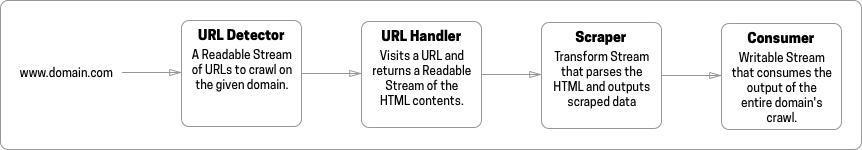
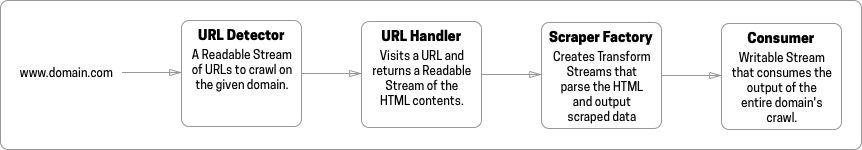
Finished README

diff --git a/src/core/crawlers.ts b/src/core/crawlers.ts
@@ -3,7 +3,7 @@ import hittp from "hittp";
 import { v4 as uuidv4 } from "uuid"
 import { ICrawlConsumer } from "./consumers"
 import SitemapLinkDetector, {ILinkDetector} from "./detectors";
-import { IScraper } from "./scrapers"
+import { IScraperFactory } from "./scrapers"
 import MetadataScraper from "./scrapers";
 import HTTPURLHandler, {IURLHandler} from "./url_handlers";
 
@@ -12,7 +12,7 @@ export interface ICrawler extends EventEmitter {
   detector: ILinkDetector
   consumer: ICrawlConsumer
   urlHandler: IURLHandler
-  scraper: IScraper
+  scraper: IScraperFactory
   domain: URL
   start(): void
   pause(): void
@@ -34,13 +34,13 @@ export default class DomainCrawler extends EventEmitter implements ICrawler {
   public detector: ILinkDetector
   public consumer: ICrawlConsumer
   public urlHandler: IURLHandler
-  public scraper: IScraper
+  public scraper: IScraperFactory
   public id: string
   private linkCount: number = 0
   private responseCount: number = 0
   constructor(domain: URL,
               consumer: ICrawlConsumer,
-              scraper?: IScraper,
+              scraper?: IScraperFactory,
               detector?: ILinkDetector,
               urlHandler?: IURLHandler) {
       super()

diff --git a/src/core/scrapers.ts b/src/core/scrapers.ts
@@ -6,11 +6,11 @@ import { Transform, TransformCallback } from "stream"
  * and the html will stream to the Transform stream returned from create().
  * See MetadataScraper for a default implementation
  */
-export interface IScraper {
+export interface IScraperFactory {
   create(options?: any): Transform
 }
 
-export default class MetadataScraper implements IScraper {
+export default class MetadataScraper implements IScraperFactory {
   public create(options?: any): MetadataScrapeStream {
     return new MetadataScrapeStream(options)
   }

diff --git a/src/commands/crawl.ts b/src/commands/crawl.ts
@@ -54,7 +54,6 @@ export default function crawl(port: number, host: string,
           // console.error(err)
         }
       }
-      console.log(body, callback)
       if (callback) {
         callback(res.statusCode!, body)
       }

diff --git a/README.md b/README.md
@@ -37,22 +37,82 @@ Now that the server is running, you can interact with it using the Client
 import { Client } from "turbocrawl"
 /* const { Client } = require("turbocrawl") */
 const client = new Client(8088, "localhost")
+client.crawl(["www.cnn.com", "www.nytimes.com", "www.newyorker.com"], (statusCode, response) => {
+  console.log(statusCode, response)
+})
+client.listCrawlers((crawlers) => {
+  console.log(crawlers)
+})
 ```
-
 
 ## Customization
 
-A crawler is an object that takes a domain name as input and discovers URLs to visit, fetches the HTML contents, scrapes data, then writes data out. A new crawler object is created for each domain that is crawled.
+The Server constructor takes 3 optional arguments: 
 
-There are 4 components to a Crawler
+```
+constructor(port: number = 8088, 
+            host: string = "localhost", 
+            crawlerFactory: ICrawlerFactory = new DomainCrawlerFactory())
+```
+
+### Crawlers and the Crawler Factory
+The entry point to customization is `crawlerFactory` which is responsible for creating a crawler object for each domain that is crawled.
+
+```
+interface ICrawlerFactory {
+  create(domain: URL): ICrawler
+}
+```
+
+Note that a crawler takes a domain name URL as input, and is meant for crawling a single website.
+
+There are 4 components to a Crawler. The interface is built with streams so the arrows signify the flow of data from left to right. From `"www.domain.com"` to a `Stream.Writable`
 
 ![Turbo Crawl Pipeline](img/pipeline.png)
 
-Each component has a default implementation
+Each component has a default implementation that works out of the box.
 
 ![Default Crawler Pipeline](img/default.png)
 
-You most likely want to use the default URL Handler and customize the other 3 components as you see fit.
+You most likely want to use the default URL Handler and customize the other 3 components as you see fit. The easiest way to do this is to extend the default `DomainCrawler` class and replace the `detector`, `scraper`, and `consumer` with your own classes in the constructor.
+
+### Domain Crawler
+```
+class DomainCrawler extends EventEmitter implements ICrawler {
+    constructor(domain: URL,
+              consumer: ICrawlConsumer,
+              scraper?: IScraper,
+              detector?: ILinkDetector)
+}
+```
+```
+class MyCustomCrawler extends DomainCrawler {
+  constructor(domain: URL) {
+    super(domain,
+          new MyCustomConsumer(),
+          new MyCustomScraper(),
+          new MyCustomLinkDetector())
+  }
+}
+```
+
+You can now create the server with your custom crawler factory
+
+```
+class MyCustomCrawlerFactory implements ICrawlerFactory {
+  public create(domain: URL): DomainCrawler {
+    return MyCustomCrawler(domain)
+  }
+}
+import { Server } from "turbocrawl"
+/* const { Server } = require("turbocrawl") */
+const server = new Server(8088, "localhost", new MyCustomCrawlerFactory())
+server.listen(() => {
+  console.log("Turbo Crawl server is listening on port 8088 with custom crawler)
+})
+```
+
+Of course you can choose to customize all or none of these components to suit your needs.
 
 ### URL Detector
 
@@ -64,19 +124,19 @@ interface ILinkDetector extends Readable {
 }
 ```
 
-The URL Detector is given just a domain name as input and is responsible for finding URLs to scrape on that domain. There is only one URL Detector object per crawler. It is implemented as a Readable Stream so whenever your class has discovered a URL, it should write it to the stream as a string. `this.push(url.href)`
+The URL Detector is given just a domain name as input and is responsible for finding URLs to scrape on that domain. There is only one URL Detector object per crawler. It is implemented as a Readable Stream so whenever your class has discovered a URL, it should write it to the stream as a string: `this.push(url.href)`. When the stream ends, the getLinkCount() method should return the number of URLs that were detected to ensure that resources are cleaned up properly.
 
-The default Detector will find a website's [Sitemap](http://sitemaps.org), usually in its `robots.txt`, and then extract webpages that have been modified in the past 48 hours. It is useful for news websites which often have up-to-date sitemaps.
+The default Detector will find a website's [Sitemap](http://sitemaps.org), usually in its `robots.txt`, and then extract webpages that have been modified in the past 48 hours. It is useful for news websites which often have up-to-date and valid sitemaps. The implementation is not tolerant of invalid sitemap entries; it will only find webpages since a specified date, and ignores sitemap entries without a valid date.
 
 ### Scraper
 
 ```
-export interface IScraper {
+export interface IScraperFactory {
   create(options?: any): Transform
 }
 ```
 
-The Scraper is implemented as a factory that returns a Transform stream that takes an HTML stream as input, and outputs a stream of scraped data. A new scraper object is created for each webpage visited by a crawler.
+The Scraper Factory returns a Transform stream that takes an HTML stream as input, and outputs a stream of scraped data. A new scraper object is created for each webpage visited by a crawler.
 
 The default Scraper returns a JSON object of all of the `<meta>` tags on a webpage which can be useful for extracting structured data such as [Open Graph](https://ogp.me) or [Schema](https://schema.org/).
 
@@ -90,7 +150,7 @@ export interface ICrawlConsumer extends Writable {
 
 The Consumer is responsible for writing out the scraped data, usually to a file. There is only one Consumer object per crawler.
 
-The default Consumer will write out all Scraper output to a file.
+The default Consumer will write out all Scraper output to a file in `./.turbocrawl/crawled/`.
 
 ### URL Handler
 ```
@@ -102,3 +162,55 @@ export interface IURLHandler {
 The URL handler fetches the HTML for each URL discovered by the URL Detector. There is only one URL Handler object per crawler. 
 
 This is the most difficult component to customize, and the default Handler has important features such as per-domain throttling and caching so take care when implementing your own.
+
+## Advanced Customization
+
+The Crawler class has so far only taken a domain name as input e.g. `"www.cnn.com"`. However, using a pass through link detector, one could easily create a crawler that takes a webpage as input and simply crawls that one page. Here's a sample implementation:
+```
+class PassThroughLinkDetector extends PassThrough implements ILinkDetector {
+  public domain: URL
+  public options?: any
+  constructor(webpage: URL, options?: any) {
+    super(options)
+    this.options = options
+    this.domain = webpage
+    this.on("pipe", () => {
+      this.push(this.domain.href)
+      this.end()
+    })
+  }
+  public getLinkCount(): number {
+    return 1
+  }
+}
+```
+
+A custom URL handler could be written that instead of fetching the HTML, could use a [Puppeteer](https://github.com/GoogleChrome/puppeteer) instance to visit each page in order to run JavaScript and scrape dynamic websites.
+
+A custom scraper could use [Mercury Parser](https://github.com/postlight/mercury-parser) to find the body of a news article. You can also try [this npm package](https://www.npmjs.com/package/article) by [Andreas Madson](https://github.com/AndreasMadsen) which attempts to scrape a news article from a stream of HTML and fits in more easily with the architecture of Turbo Crawl since it is based on Streams. Here's some sample code to get you started:
+```
+const article = require("article")
+import { Duplex } from "stream"
+class ArticleScrapeStream extends Duplex {
+  private parser: any
+  constructor(url: URL, options?: any) {
+    super(options)
+    this.parser = article(url.href, (err, result) => {
+      this.push(result.text)
+    })
+  }
+  pipe(destination: any) {
+    destination.pipe(this.parser)
+  }
+}
+
+class ArticleScraperFactory implements IScraperFactory {
+  public create(options: any): ReadableStream {
+    return new ArticleScrapeStream(options.url)
+  }
+}
+```
+
+A custom consumer class could take scraped news articles and index them straight into an [Elasticsearch](www.elastic.co) database for large scale full text search of historic and breaking news.
+
+A consumer could write out a large corpus of news articles to the filesystem and import it into a NLP library like Python's [NLTK](https://www.nltk.org/).
